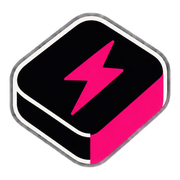
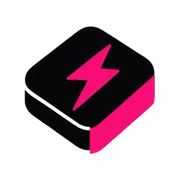
One brand mark and one header across the app pages (landing untouched)
- New Zap mark (transparent, clean sticker outline) as favicon.ico (16/32/48),
  icon.png, apple-icon.png and /brand/mark.png. The app pages showed the dark
  logo.jpg banner as a black box on light pages.
- Logo = mark + 'Zap' + outlined PAYMENTS, matching the landing lockup.
- Shared sticky SiteHeader: sellers (dashboard, demo shop, dev inbox) get
  Dashboard and Docs; buyers (checkout, receipt, verify) get an escrow trust
  line and no seller links. 'Dashboard' returns to this browser's own private
  dashboard link once it has been opened.
- Tab titles per page (Dashboard · Zap, Checkout · Zap, ...).
- The invalid payment link page uses the same mark.

Changed region(s): [[0.0278, 0.0556, 0.9722, 0.9444]]

diff --git a/apps/web/components/site-header.tsx b/apps/web/components/site-header.tsx
@@ -1,0 +1,70 @@
+"use client";
+
+import { useEffect, useState, type ReactNode } from "react";
+import Link from "next/link";
+import { usePathname } from "next/navigation";
+import { Logo } from "@/components/ui";
+
+const SAVED_DASHBOARD = "zap:dashboard";
+
+/** Remember this browser's private dashboard link so the header can take the seller back to it. */
+export function rememberDashboard(url: string): void {
+  try {
+    localStorage.setItem(SAVED_DASHBOARD, url);
+  } catch {}
+}
+
+/**
+ * One header for every app page (not the landing page).
+ * - `app`: sellers. Logo, Dashboard and Docs, plus an optional right-hand slot.
+ * - `customer`: buyers (checkout, receipt, verify). Logo and a trust line, no seller links.
+ */
+export function SiteHeader({ variant = "app", right }: { variant?: "app" | "customer"; right?: ReactNode }) {
+  const path = usePathname() ?? "";
+  const [dash, setDash] = useState("/dashboard");
+  useEffect(() => {
+    try {
+      const saved = localStorage.getItem(SAVED_DASHBOARD);
+      if (saved && saved.startsWith("/dashboard")) setDash(saved);
+    } catch {}
+  }, []);
+  const links = [
+    { href: dash, label: "Dashboard", active: path.startsWith("/dashboard") },
+    { href: "/docs", label: "Docs", active: path.startsWith("/docs") },
+  ];
+  return (
+    <header className="sticky top-0 z-40 border-b border-line bg-surface/85 backdrop-blur-md">
+      <div className="mx-auto flex h-16 max-w-6xl items-center justify-between gap-3 px-4 sm:px-5">
+        <Link href="/" aria-label="Zap Payments home" className="-m-1 rounded-xl p-1 focus-visible:outline-2 focus-visible:outline-offset-2 focus-visible:outline-pink">
+          <Logo />
+        </Link>
+        <div className="flex min-w-0 items-center gap-2 sm:gap-3">
+          {right}
+          {variant === "app" ? (
+            <nav aria-label="Main" className="flex items-center gap-1">
+              {links.map((l) => (
+                <Link
+                  key={l.label}
+                  href={l.href}
+                  aria-current={l.active ? "page" : undefined}
+                  className={`rounded-full px-3 py-1.5 text-sm font-semibold transition-colors ${l.active ? "bg-accent-soft text-ink" : "text-muted hover:bg-canvas hover:text-ink"}`}
+                >
+                  {l.label}
+                </Link>
+              ))}
+            </nav>
+          ) : (
+            <span className="flex items-center gap-1.5 text-xs font-semibold text-muted">
+              <svg width="14" height="14" viewBox="0 0 24 24" fill="none" stroke="currentColor" strokeWidth="2.2" strokeLinecap="round" strokeLinejoin="round" aria-hidden="true" className="text-good">
+                <path d="M12 3 5 6v5c0 4.5 3 8.4 7 10 4-1.6 7-5.5 7-10V6l-7-3Z" />
+                <path d="m9 12 2 2 4-4" />
+              </svg>
+              <span className="hidden sm:inline">Held in escrow on NEAR until the refund window ends</span>
+              <span className="sm:hidden">Escrow on NEAR</span>
+            </span>
+          )}
+        </div>
+      </div>
+    </header>
+  );
+}

diff --git a/apps/web/app/shop/page.tsx b/apps/web/app/shop/page.tsx
@@ -3,6 +3,7 @@
 import { useCallback, useEffect, useState } from "react";
 import { api, duration, usd } from "@/lib/client";
 import { PayButton } from "@/components/pay-button";
+import { SiteHeader } from "@/components/site-header";
 import { Logo, Notice, SimBadge, Spinner } from "@/components/ui";
 
 interface Product {
@@ -61,28 +62,11 @@ export default function Shop() {
 
   return (
     <div className="min-h-screen bg-canvas">
-      <header className="border-b border-line bg-surface">
-        <div className="mx-auto flex max-w-5xl flex-wrap items-center justify-between gap-3 px-5 py-4">
-          <a href="/shop" className="flex items-center gap-3">
-            <span className="text-lg font-bold tracking-tight" style={{ fontFamily: "var(--font-display)" }}>
-              {merchant?.name ?? "Demo checkout"}
-            </span>
-            <span className="pill bg-accent-soft text-muted">powered by Zap</span>
-          </a>
-          <nav className="flex flex-wrap items-center gap-4 text-sm text-muted">
-            <SimBadge mode={mode} />
-            <a className="hover:text-ink" href={merchant ? `/dashboard?m=${merchant.id}` : "/dashboard"}>
-              Merchant dashboard
-            </a>
-            <a className="hover:text-ink" href="/">
-              About Zap
-            </a>
-          </nav>
-        </div>
-      </header>
+      <SiteHeader right={<SimBadge mode={mode} />} />
 
       <main className="mx-auto max-w-5xl px-5 py-10">
-        <h1 className="text-3xl font-bold tracking-tight md:text-4xl">Plans and pricing</h1>
+        <p className="mono text-xs font-semibold tracking-wider text-muted uppercase">{merchant?.name ?? "Demo checkout"} · demo storefront</p>
+        <h1 className="mt-1 text-3xl font-bold tracking-tight md:text-4xl">Plans and pricing</h1>
         <p className="mt-2 max-w-2xl leading-relaxed text-muted">
           An ordinary pricing page. Each button below is one <code className="mono text-sm text-ink">&lt;pay-button&gt;</code> tag. Customers pay with any coin on any chain; the business receives USDC, and the money waits in a receipt the customer controls until the refund period ends.
         </p>

diff --git a/apps/web/app/pay/route.ts b/apps/web/app/pay/route.ts
@@ -13,15 +13,15 @@ function invalidLinkPage(message: string): string {
 @media (prefers-color-scheme:dark){:root{--bg:#0b0b0b;--card:#161616;--fg:#f2f2ee;--muted:#a6a6a2;--line:#2c2c2c}}
 *{box-sizing:border-box}body{margin:0;min-height:100vh;display:grid;place-items:center;padding:24px 16px;background:var(--bg);color:var(--fg);font:16px/1.55 Inter,ui-sans-serif,system-ui,-apple-system,"Segoe UI",sans-serif}
 main{width:100%;max-width:520px;background:var(--card);border:1.5px solid var(--line);border-radius:24px;padding:28px}
-.mark{display:inline-flex;align-items:center;gap:10px;font-weight:700;font-size:20px;letter-spacing:-.02em}
-.tile{width:32px;height:32px;border-radius:9px;background:#111;display:grid;place-items:center}
+.mark{display:inline-flex;align-items:center;gap:8px;font-weight:700;font-size:20px;letter-spacing:-.02em;color:var(--fg);text-decoration:none;background:none;min-height:0;padding:0}
+.pill{border:1.5px solid currentColor;border-radius:99px;padding:1px 8px;font-size:9.5px;letter-spacing:.18em;font-weight:600}
 h1{margin:22px 0 8px;font-size:26px;line-height:1.15;letter-spacing:-.03em}
 p{margin:0 0 10px;color:var(--muted)}
 code{display:block;margin:14px 0 18px;padding:12px 14px;border-radius:12px;background:var(--bg);border:1px solid var(--line);color:var(--fg);font:13px/1.5 ui-monospace,SFMono-Regular,Menlo,monospace;overflow-wrap:anywhere}
 a{display:inline-flex;align-items:center;min-height:44px;padding:0 20px;border-radius:999px;background:var(--fg);color:var(--bg);font-weight:600;text-decoration:none}
 a:focus-visible{outline:2.5px solid var(--pink);outline-offset:2px}
 </style></head><body><main>
-<span class="mark"><span class="tile"><svg width="16" height="16" viewBox="0 0 24 24" fill="#ff2d87" aria-hidden="true"><path d="M13 2 4 14h7l-1 8 9-12h-7l1-8z"/></svg></span>Zap</span>
+<a class="mark" href="/" aria-label="Zap Payments home"><img src="/brand/mark.png" width="32" height="32" alt="">Zap<span class="pill">PAYMENTS</span></a>
 <h1>This payment link isn't valid</h1>
 <p>Nothing was charged. The business that sent you this link needs to fix it; let them know what went wrong:</p>
 <code>${esc(message)}</code>

diff --git a/apps/web/app/dashboard/page.tsx b/apps/web/app/dashboard/page.tsx
@@ -4,8 +4,9 @@ import { useEffect, useMemo, useState, type ReactNode } from "react";
 import { api, chainName, fromMinor, setSellerToken, short, toMinor, until, usd } from "@/lib/client";
 import { receiptStatus } from "@/lib/labels";
 import type { DashReceipt } from "@/lib/types";
-import { CopyButton, DurationInput, Field, Logo, Notice, Pill, SimBadge, Spinner, usePoll } from "@/components/ui";
+import { CopyButton, DurationInput, Field, Notice, Pill, SimBadge, Spinner, usePoll } from "@/components/ui";
 import { SellTab } from "./sell-tab";
+import { SiteHeader, rememberDashboard } from "@/components/site-header";
 
 interface Merchant {
   id: string;
@@ -58,13 +59,10 @@ export default function Dashboard() {
 
 function Page({ children, right }: { children: ReactNode; right?: ReactNode }) {
   return (
-    <main className="mx-auto max-w-6xl px-5 py-6">
-      <header className="mb-6 flex flex-wrap items-center justify-between gap-3">
-        <a href="/"><Logo /></a>
-        <div className="flex items-center gap-2 text-sm">{right}</div>
-      </header>
-      {children}
-    </main>
+    <>
+      <SiteHeader right={right} />
+      <main className="mx-auto max-w-6xl px-4 py-8 sm:px-5">{children}</main>
+    </>
   );
 }
 
@@ -135,7 +133,13 @@ function MerchantDash({ id }: { id: string }) {
   const [m, setM] = useState<Merchant | null>(null);
   const [error, setError] = useState<string | null>(null);
   const { data: dev, refresh: refreshDev } = usePoll(() => api<DevState>("/api/dev/state"), 4000);
-  const reload = () => api<Merchant>(`/api/merchants/${id}`).then(setM).catch((e: Error) => setError(e.message));
+  const reload = () =>
+    api<Merchant>(`/api/merchants/${id}`)
+      .then((r) => {
+        setM(r);
+        rememberDashboard(window.location.pathname + window.location.search);
+      })
+      .catch((e: Error) => setError(e.message));
   useEffect(() => void reload(), [id]); // eslint-disable-line react-hooks/exhaustive-deps
   useEffect(() => {
     if (m?.chainState === "active") return;

diff --git a/apps/web/components/ui.tsx b/apps/web/components/ui.tsx
@@ -4,12 +4,23 @@ import { useEffect, useState, type ReactNode } from "react";
 import QRCode from "qrcode";
 import { copy } from "@/lib/client";
 
-/** Zap Payments wordmark from `/brand/logo.jpg`. */
-export function Logo({ className = "", compact = false }: { className?: string; compact?: boolean }) {
-  if (compact) {
-    return <img src="/brand/logo.jpg" alt="" aria-hidden className={`h-8 w-8 rounded-lg object-cover object-left ${className}`} />;
-  }
-  return <img src="/brand/logo.jpg" alt="Zap Payments" className={`h-12 w-auto max-w-[300px] object-contain ${className}`} />;
+/**
+ * The Zap mark (`/brand/mark.png`, transparent) with the "Zap PAYMENTS" wordmark, as on the landing page.
+ * `wordmark={false}` (or the legacy `compact`) shows the mark alone.
+ */
+export function Logo({ className = "", compact = false, wordmark = !compact, size = 32 }: { className?: string; compact?: boolean; wordmark?: boolean; size?: number }) {
+  return (
+    <span className={`inline-flex items-center gap-2 text-ink ${className}`}>
+      {/* eslint-disable-next-line @next/next/no-img-element */}
+      <img src="/brand/mark.png" alt={wordmark ? "" : "Zap Payments"} aria-hidden={wordmark || undefined} width={size} height={size} draggable={false} className="shrink-0 select-none" style={{ width: size, height: size }} />
+      {wordmark ? (
+        <>
+          <span className="font-bold tracking-tight" style={{ fontFamily: "var(--font-display)", fontSize: Math.round(size * 0.62) }}>Zap</span>
+          <span className="hidden rounded-full border-[1.5px] border-current px-2 py-px text-[9.5px] leading-[1.35] font-semibold tracking-[0.18em] sm:inline-block">PAYMENTS</span>
+        </>
+      ) : null}
+    </span>
+  );
 }
 
 const TONES = {

diff --git a/apps/web/app/checkout/[id]/checkout.tsx b/apps/web/app/checkout/[id]/checkout.tsx
@@ -6,6 +6,7 @@ import { api, chainName, short, usd } from "@/lib/client";
 import { EVM_CHAINS, hasWallet, isEvmChain, payWithWallet, txUrl } from "@/lib/evm";
 import { CopyButton, Logo, Notice, QR, SimBadge, Spinner, usePoll } from "@/components/ui";
 import { CoinBadge, CoinPicker, type Token } from "./coin-picker";
+import { SiteHeader } from "@/components/site-header";
 
 interface Session {
   id: string;
@@ -359,21 +360,21 @@ function Shell({ embed, children, innerRef }: { embed: boolean; children: React.
     return (
       <div ref={innerRef} className="bg-surface p-5">
         {children}
-        <p className="mt-5 flex items-center justify-center gap-1.5 text-[11px] text-muted">
-          <Logo className="text-[11px]" />
+        <p className="mt-5 flex items-center justify-center gap-2 text-[11px] font-medium text-muted">
+          Secured by <Logo size={18} />
         </p>
       </div>
     );
   return (
-    <main className="mx-auto flex min-h-screen max-w-md flex-col justify-center px-4 py-10">
-      <div className="mb-5 flex justify-center">
-        <Logo />
-      </div>
-      <div ref={innerRef} className="card p-6">
-        {children}
-      </div>
-      <p className="mt-4 text-center text-xs text-muted">Funds are held by a public NEAR contract, not by a company. Hackathon prototype, unaudited.</p>
-    </main>
+    <>
+      <SiteHeader variant="customer" />
+      <main className="mx-auto flex max-w-md flex-col px-4 py-8">
+        <div ref={innerRef} className="card p-6">
+          {children}
+        </div>
+        <p className="mt-4 text-center text-xs text-muted">Funds are held by a public NEAR contract, not by a company. Hackathon prototype, unaudited.</p>
+      </main>
+    </>
   );
 }
 

diff --git a/apps/web/app/dev/inbox/page.tsx b/apps/web/app/dev/inbox/page.tsx
@@ -1,7 +1,8 @@
 "use client";
 
 import { api } from "@/lib/client";
-import { Logo, Notice, Pill, Spinner, usePoll } from "@/components/ui";
+import { Notice, Pill, Spinner, usePoll } from "@/components/ui";
+import { SiteHeader } from "@/components/site-header";
 
 interface Mail {
   id: string;
@@ -16,11 +17,10 @@ interface Mail {
 export default function Inbox() {
   const { data, error } = usePoll(() => api<{ emails: Mail[] }>("/api/dev/inbox"), 3000);
   return (
-    <main className="mx-auto max-w-2xl space-y-4 px-4 py-10">
-      <div className="flex items-center justify-between">
-        <a href="/"><Logo /></a>
-        <Pill tone="warn">Dev inbox</Pill>
-      </div>
+    <>
+    <SiteHeader right={<Pill tone="warn">Dev inbox</Pill>} />
+    <main className="mx-auto max-w-2xl space-y-4 px-4 py-8">
+      <h1 className="text-2xl font-semibold tracking-tight">Dev inbox</h1>
       <p className="text-sm text-muted">Emails the app sent (or would send). With RESEND_API_KEY set they are also delivered for real.</p>
       {error ? <Notice tone="bad">{error}</Notice> : null}
       {!data && !error ? <p className="flex items-center gap-2 text-sm text-muted"><Spinner /> Loading…</p> : null}
@@ -35,5 +35,6 @@ export default function Inbox() {
         </details>
       ))}
     </main>
+    </>
   );
 }

diff --git a/apps/web/app/verify/[id]/page.tsx b/apps/web/app/verify/[id]/page.tsx
@@ -2,7 +2,8 @@
 
 import { use } from "react";
 import { api, short, usd } from "@/lib/client";
-import { Logo, Notice, Pill, SimBadge, Spinner, usePoll } from "@/components/ui";
+import { Notice, Pill, SimBadge, Spinner, usePoll } from "@/components/ui";
+import { SiteHeader } from "@/components/site-header";
 import type { Receipt } from "@/lib/types";
 
 interface Verify {
@@ -28,8 +29,9 @@ export default function VerifyPage({ params }: { params: Promise<{ id: string }>
   const { data: v, error } = usePoll(() => api<Verify>(`/api/verify/${id}`), 5000, [id]);
   const covered = v ? BigInt(v.contractTotals.usdcBalance) >= BigInt(v.contractTotals.allocated) : true;
   return (
-    <main className="mx-auto max-w-xl space-y-4 px-4 py-10">
-      <div className="flex justify-center"><a href="/"><Logo /></a></div>
+    <>
+    <SiteHeader variant="customer" />
+    <main className="mx-auto max-w-xl space-y-4 px-4 py-8">
       {error && !v ? <Notice tone="bad">{error}</Notice> : null}
       {!v && !error ? <p className="flex items-center gap-2 text-sm text-muted"><Spinner /> Checking the chain…</p> : null}
       {v ? (
@@ -87,5 +89,6 @@ export default function VerifyPage({ params }: { params: Promise<{ id: string }>
         </>
       ) : null}
     </main>
+    </>
   );
 }

diff --git a/apps/web/app/r/[id]/receipt.tsx b/apps/web/app/r/[id]/receipt.tsx
@@ -5,7 +5,8 @@ import { receiptPublicKey, signReceiptAction, type ReceiptAction } from "@uc/cha
 import { api, chainName, fromMinor, keyFromFragment, sha256Hex, short, toMinor, until, usd } from "@/lib/client";
 import { EVENT_LABELS, receiptStatus } from "@/lib/labels";
 import type { CaseView, ReceiptView } from "@/lib/types";
-import { Field, Logo, Notice, Pill, SimBadge, Spinner, usePoll } from "@/components/ui";
+import { Field, Notice, Pill, SimBadge, Spinner, usePoll } from "@/components/ui";
+import { SiteHeader } from "@/components/site-header";
 
 type Panel = null | "refund" | "cancel" | "claim" | "transfer" | "address";
 
@@ -236,12 +237,10 @@ export default function ReceiptPage({ id }: { id: string }) {
 
 function Frame({ children }: { children: ReactNode }) {
   return (
-    <main className="mx-auto max-w-xl space-y-4 px-4 py-10">
-      <div className="flex justify-center pb-1">
-        <a href="/"><Logo /></a>
-      </div>
-      {children}
-    </main>
+    <>
+      <SiteHeader variant="customer" />
+      <main className="mx-auto max-w-xl space-y-4 px-4 py-8">{children}</main>
+    </>
   );
 }
 

diff --git a/apps/web/app/shop/layout.tsx b/apps/web/app/shop/layout.tsx
@@ -1,0 +1,8 @@
+import type { Metadata } from "next";
+import type { ReactNode } from "react";
+
+export const metadata: Metadata = { title: "Demo storefront" };
+
+export default function Layout({ children }: { children: ReactNode }) {
+  return children;
+}

diff --git a/apps/web/app/verify/[id]/layout.tsx b/apps/web/app/verify/[id]/layout.tsx
@@ -1,0 +1,8 @@
+import type { Metadata } from "next";
+import type { ReactNode } from "react";
+
+export const metadata: Metadata = { title: "Verify receipt" };
+
+export default function Layout({ children }: { children: ReactNode }) {
+  return children;
+}

diff --git a/apps/web/app/dashboard/layout.tsx b/apps/web/app/dashboard/layout.tsx
@@ -1,0 +1,8 @@
+import type { Metadata } from "next";
+import type { ReactNode } from "react";
+
+export const metadata: Metadata = { title: "Dashboard" };
+
+export default function Layout({ children }: { children: ReactNode }) {
+  return children;
+}
